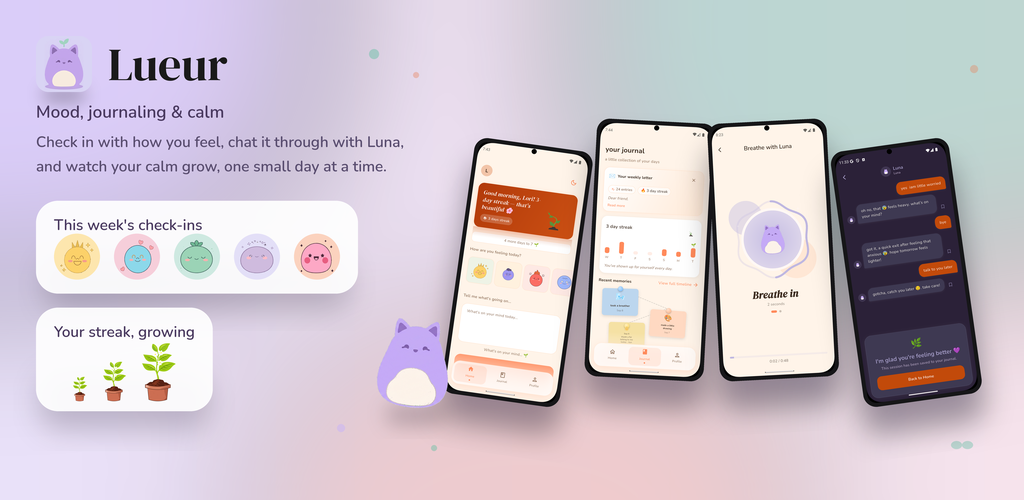
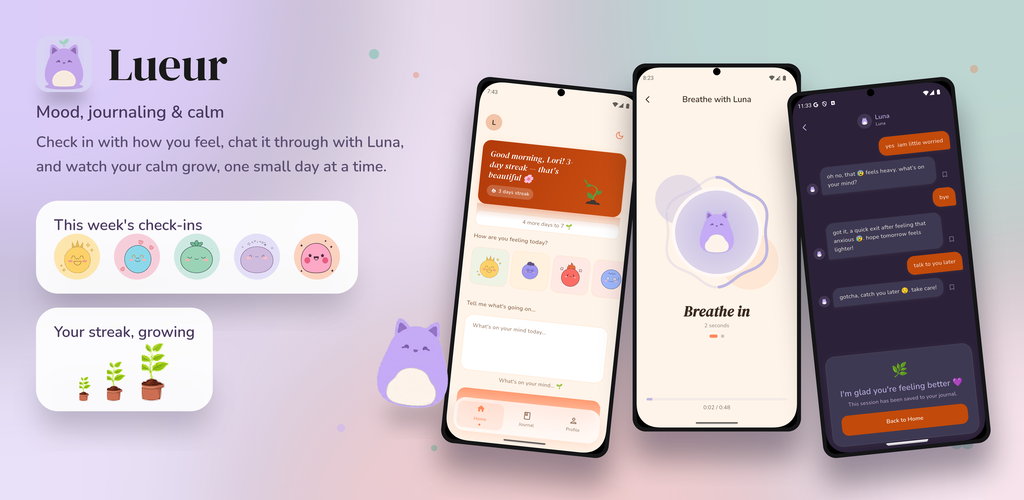
fix all bugs with screenshots

Changed region(s): [[0.4062, 0.12, 1.0, 0.99], [0.0625, 0.69, 0.1875, 0.81]]

diff --git a/screenshots/store/generate_feature_graphic.py b/screenshots/store/generate_feature_graphic.py
@@ -57,18 +57,25 @@ DESCRIPTION = "Check in with how you feel, chat it through with Luna, and watch 
 GRADIENT_LEFT = (0xE9, 0xE1, 0xF9)
 GRADIENT_RIGHT = (0xF6, 0xE3, 0xEC)
 
-# Four framed phones, from back to front. The source screens are all taken
+# Three framed phones, from back to front. The source screens are all taken
 # from store1; the frame itself is generated by the same renderer that makes
 # the Play Store screenshot set, ensuring the bezel, punch-hole, buttons and
 # home indicator match exactly.
 PHONE_SCREENS = [
-    # Deliberately separated: each screen must remain recognisable at
-    # Google Play's small listing-preview size, rather than hiding behind
-    # a single oversized hero phone.
-    {"screenshot": "home_light.png", "angle": -8, "h_frac": 0.50, "cx_frac": 0.505, "cy_frac": 0.545},
-    {"screenshot": "journal_light.png", "angle": -3, "h_frac": 0.50, "cx_frac": 0.635, "cy_frac": 0.500},
-    {"screenshot": "breathing_light.png", "angle": 3, "h_frac": 0.50, "cx_frac": 0.755, "cy_frac": 0.500},
-    {"screenshot": "chat_with_ai_luna_more_dark.png", "angle": 8, "h_frac": 0.50, "cx_frac": 0.885, "cy_frac": 0.545, "wifi_icon": True},
+    # Three phones, not four — dropping one lets the remaining three grow
+    # substantially (h_frac 0.50 -> 0.72) while still fitting, fanned, in
+    # the ~500px-wide column right of the logo/cards, so the screenshot UI
+    # inside each is actually legible at the graphic's normal display size.
+    # Home (bold emoji capture) and Breathing (a big, simple guided circle)
+    # both read cleanly at a glance; Journal's list/chart is comparatively
+    # dense and is dropped in its favour (journaling is still represented
+    # by the "This week's check-ins" card below). Chat/Luna is the hero
+    # feature and stays largest-reading by being drawn last, on top, with
+    # the boldest fan angle. Same tilted-fan cascade as before, just three
+    # wide instead of four.
+    {"screenshot": "home_light.png", "angle": -6, "h_frac": 0.72, "cx_frac": 0.530, "cy_frac": 0.535},
+    {"screenshot": "breathing_light.png", "angle": 0, "h_frac": 0.72, "cx_frac": 0.700, "cy_frac": 0.495},
+    {"screenshot": "chat_with_ai_luna_more_dark.png", "angle": 6, "h_frac": 0.72, "cx_frac": 0.868, "cy_frac": 0.535, "wifi_icon": True},
 ]
 
 # Five real mood entries (Journal-style), shown as a small floating card —
